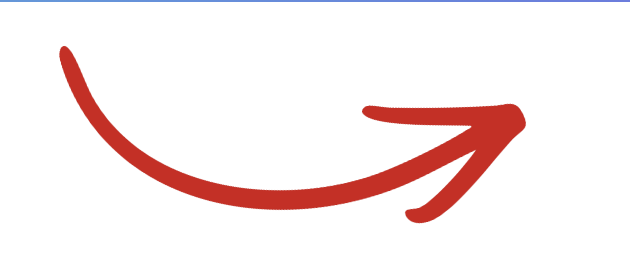
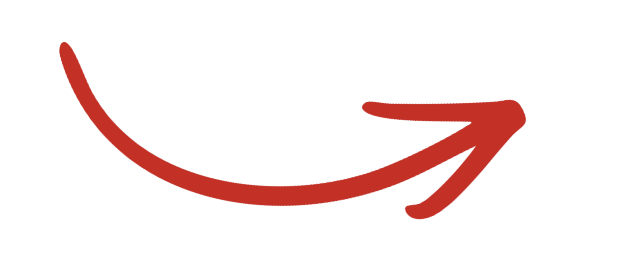
Fix /GTM loop: small PNG arrows, no overlap

diff --git a/docs/GTM/styles.css b/docs/GTM/styles.css
@@ -206,12 +206,12 @@ h3 {
   margin: 0;
   padding: 0.75rem 0 1rem;
   display: grid;
-  grid-template-columns: minmax(0, 1fr) auto minmax(0, 1fr) auto minmax(0, 1fr);
-  gap: 0.75rem 1.5rem;
+  grid-template-columns: 1fr auto 1fr auto 1fr;
+  gap: 0.75rem 1.25rem;
   align-items: start;
 }
 
-.loop > li:not(.loop__arrow) {
+.loop > li:not(.loop__join) {
   min-width: 0;
   display: flex;
   flex-direction: column;
@@ -229,7 +229,7 @@ h3 {
   font-weight: 700;
 }
 
-.loop > li:not(.loop__arrow) > span {
+.loop > li:not(.loop__join) > span {
   color: #555;
   font-size: 1.12rem;
   line-height: 1.35;
@@ -237,17 +237,18 @@ h3 {
   font-weight: 400;
 }
 
-.loop__arrow {
+.loop__join {
   display: flex;
-  align-items: flex-start;
+  align-items: center;
   justify-content: center;
-  padding-top: 0.85rem;
+  padding-top: 0.6rem;
   user-select: none;
   pointer-events: none;
 }
 
-.loop__arrow img {
-  width: 3.5rem;
+.loop__arrow {
+  width: 2.75rem;
+  max-width: 48px;
   height: auto;
   display: block;
 }
@@ -481,17 +482,18 @@ body.lightbox-open {
     gap: 0.85rem;
   }
 
-  .loop__arrow {
+  .loop__join {
     padding-top: 0;
     justify-content: flex-start;
     transform: rotate(90deg);
     transform-origin: left center;
-    width: 3.5rem;
-    height: 3.5rem;
+    width: 2.75rem;
+    height: 2.75rem;
   }
 
-  .loop__arrow img {
-    width: 3.5rem;
+  .loop__arrow {
+    width: 2.75rem;
+    max-width: 48px;
   }
 
   .ex {

diff --git a/docs/GTM/index.html b/docs/GTM/index.html
@@ -73,25 +73,15 @@
             <strong>Set</strong>
             <span>ICP · channel · threshold</span>
           </li>
-          <li class="loop__arrow" aria-hidden="true">
-            <img
-              src="./loop-arrow.png"
-              alt=""
-              width="630"
-              height="278"
-            />
+          <li class="loop__join" aria-hidden="true">
+            <img class="loop__arrow" src="./loop-arrow.png" alt="" />
           </li>
           <li>
             <strong>Run</strong>
             <span>1–4 weeks</span>
           </li>
-          <li class="loop__arrow" aria-hidden="true">
-            <img
-              src="./loop-arrow.png"
-              alt=""
-              width="630"
-              height="278"
-            />
+          <li class="loop__join" aria-hidden="true">
+            <img class="loop__arrow" src="./loop-arrow.png" alt="" />
           </li>
           <li>
             <strong>Decide</strong>
